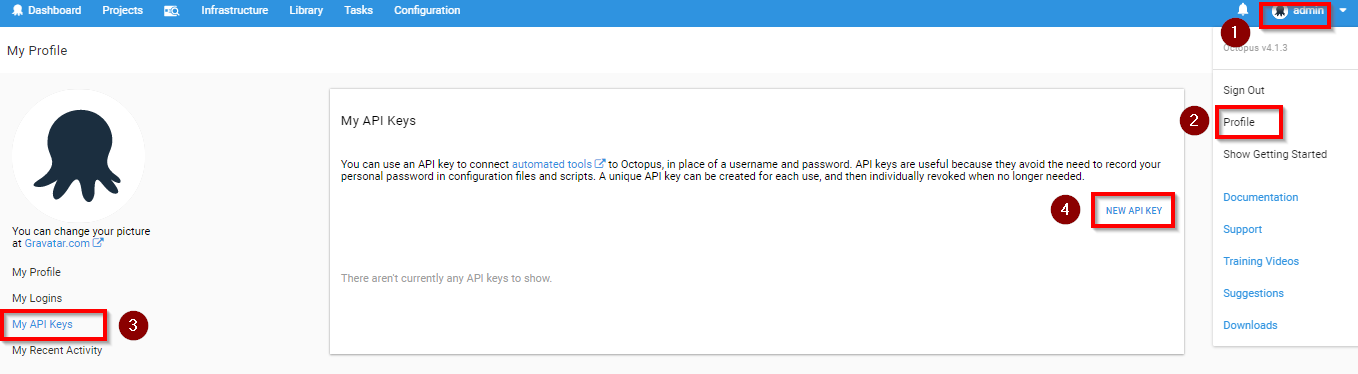
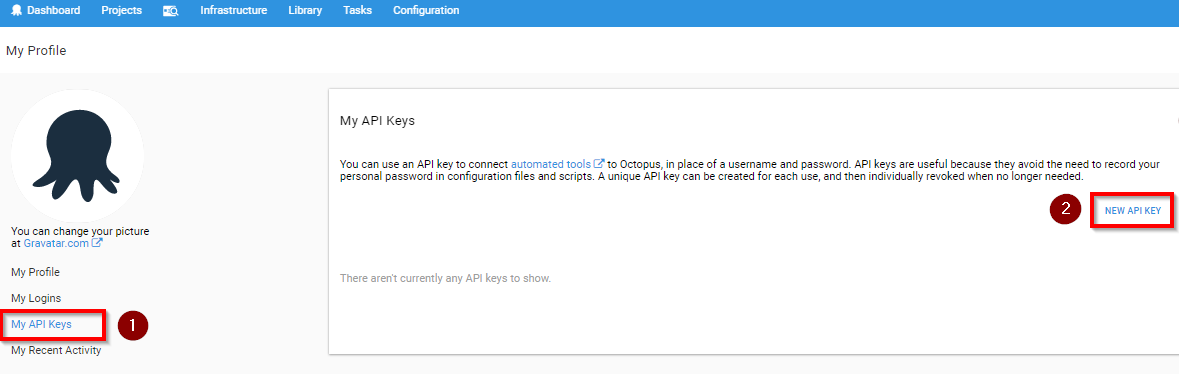
Update content

diff --git a/octopus/readme.md b/octopus/readme.md
@@ -166,7 +166,11 @@ In this exercise, we will create a project to deploy the package to **Azure App 
 
 In this exercise we will create an **API** key in Octopus. This key is required to link VSTS with Octopus.
 
-1. Under user profile, go to **MY API Key** and click **New API Key** to create.
+1. In Octopus portal, top right corner click on the currently logged in user and click on **Profile**.
+
+   <img src="images/userprofile.png">
+
+2. In My Profile page click on **My API Keys** and click on **New API Key** to create a new key.
 
 
 
